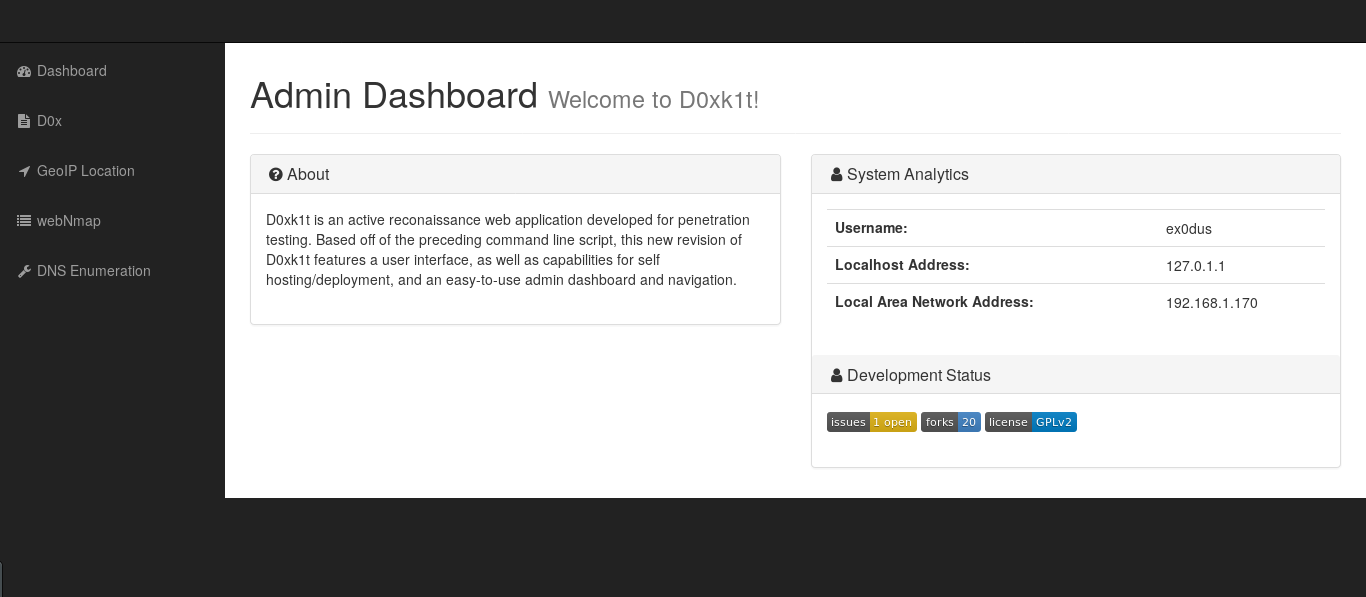
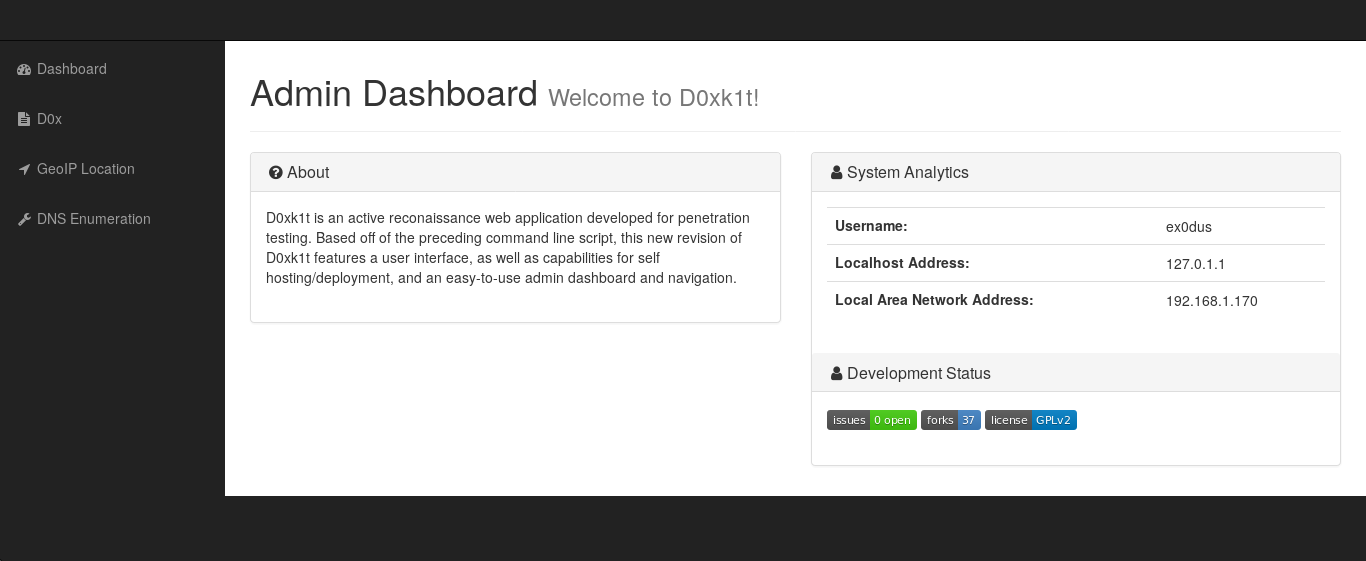
Added colors, styled up README, added license

diff --git a/templates/layout.html b/templates/layout.html
@@ -23,7 +23,6 @@
             <li><a href="{{ url_for('index') }}"><i class="fa fa-fw fa-dashboard"></i> Dashboard</a></li>
             <li><a href="{{ url_for('dox') }}"><i class="fa fa-fw fa-file-text"></i> D0x</a></li>
             <li><a href="{{ url_for('geoip') }}"><i class="fa fa-fw fa-location-arrow"></i> GeoIP Location</a></li>
-            <!--<li><a href="{{ url_for('nmap') }}"><i class="fa fa-fw fa-list"></i> webNmap </a></li>-->
             <li><a href="{{ url_for('dns') }}"><i class="fa fa-fw fa-wrench"></i> DNS Enumeration</a></li>
           </ul>
         </div>

diff --git a/run.py b/run.py
@@ -101,7 +101,7 @@ class Doxkit(db.Model):
 # Helper function for signal Handler to kill safely 
 # as well as actual application
 def signal_handler(signal, frame):
-    print "Killing D0xk1t. Thanks for playing!"
+    print "\033[1;32m\nKilling D0xk1t. Thanks for playing!\033[0m"
     sys.exit(0)
         
 # Helper function for deserializing model to yaml
@@ -119,6 +119,18 @@ signal.signal(signal.SIGINT, signal_handler)
 user  = socket.gethostname()
 localhost = socket.gethostbyname(user)
 lan_ip = os.popen("ifconfig | grep -Eo 'inet (addr:)?([0-9]*\.){3}[0-9]*' | grep -Eo '([0-9]*\.){3}[0-9]*' | grep -v '127.0.0.1'").read()
+
+header = '\033[1;34m' + """
+     ______   _______  __   __  ___   _  ____   _______ 
+    |      | |  _    ||  |_|  ||   | | ||    | |       |
+    |  _    || | |   ||       ||   |_| | |   | |_     _|
+    | | |   || | |   ||       ||      _| |   |   |   |  
+    | |_|   || |_|   | |     | |     |_  |   |   |   |  
+    |       ||       ||   _   ||    _  | |   |   |   |  
+    |______| |_______||__| |__||___| |_| |___|   |___|  
+    
+    https://github.com/ex0dus-0x/D0xk1t
+""" + '\033[1;37m'
 
 # Helper function for converting str to dict
 @app.template_filter('to_dict')
@@ -312,4 +324,5 @@ def nmap():
 app.jinja_env.filters['to_dict'] = to_dict 
 
 if __name__ == '__main__':
+    print header
     app.run()

diff --git a/README.md b/README.md
@@ -4,7 +4,6 @@ Active reconaissance, information gathering and OSINT built in a portable web ap
 
 [![Build Status](https://travis-ci.org/ex0dus-0x/D0xk1t.svg)](https://travis-ci.org/ex0dus-0x/D0xk1t)
 
-
 ![screenshot](/extras/screenshot.png)
 
 ### CHANGELOG
@@ -42,7 +41,7 @@ Yes. D0xk1t will forever be open-source. If you wish to contribute, you can make
 
 4. __How else can I develop on this?__
 
-I am currently working on API endpoints for D0xk1t. 
+I have created API endpoints, and more will be coming soon.
 
 ---
 
@@ -87,10 +86,9 @@ Open `config.py`. Here, you will see all the environmental variables that the ap
 
 `SECRET_KEY` is the private key utilized by WTForm's CSRF protection feature. If deployed, change it to your liking.
 
-
 ### 3.3 Deployment
 
-Once installed, run with `python run.py`. The application will run a first-time boot, and will then be accessible at `127.0.0.1:5000`. Login with credentials, and you will be present with the admin panel.
+Once installed, run with `python run.py`. The application will run a first-time boot, and will then be accessible at `127.0.0.1:5000`. 
 
 Of course, this is self-hosting on localhost. Although work-in-progress, D0xk1t will soon support hosting on a variety of SaaS and server stacks of your choice.
 
@@ -118,17 +116,17 @@ the reconaissance stage of the killchain.
 * Google Maps support for accurate GeoIP visualization
 * API endpoint support for command-liners or developers.
 
+### DNS Enumeration Module
+
+Targets, whether it be a company or a person, may utilize domains in order to display web content. Domains, especially those that are not properly configured, give penetration testers great opportunity to gather sensitive information in the
+form of metadata, whether it be an address from a WHOIS lookup, or nameservers.
+
 ---
 
-# How to Contribute
+## 5.0 How to Contribute
 
 Contributing is easy! Send a pull request if you feel that anything should be changed, removed, optimized, etc. Issues are also great for reporting bugs. 
 
----
+# License
 
-# TODO:
-
-Here are some upcoming features!
-
-* webNmap
-* DNS Enumeration
+D0xk1t is distributed under a [MIT  License](https://choosealicense.com/licenses/mit/).
